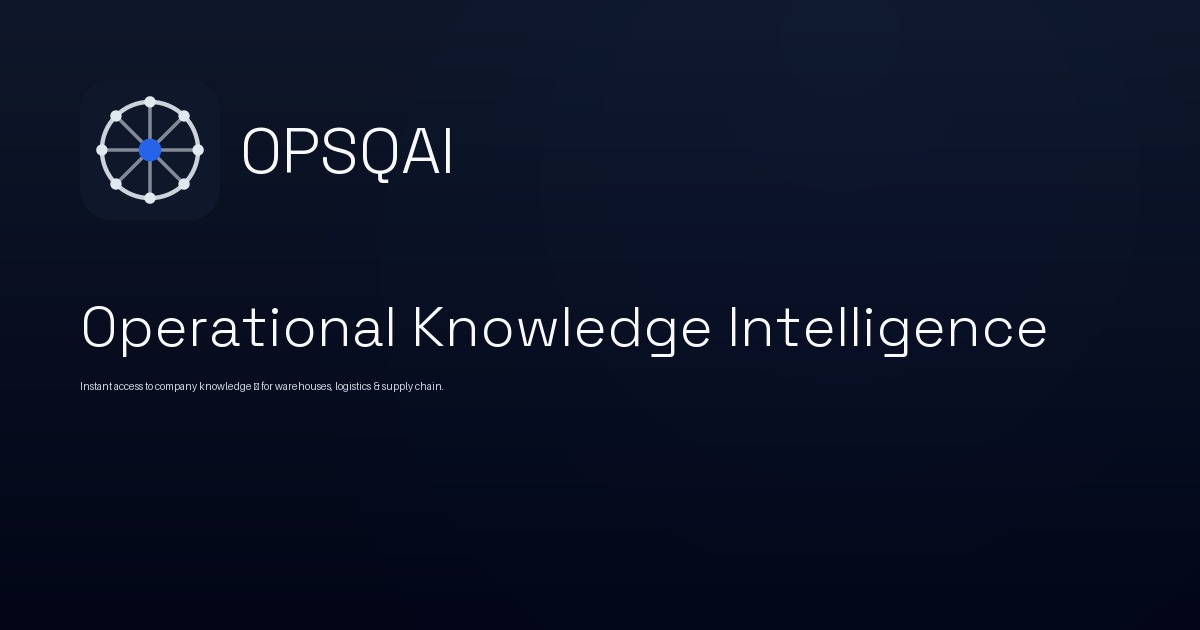
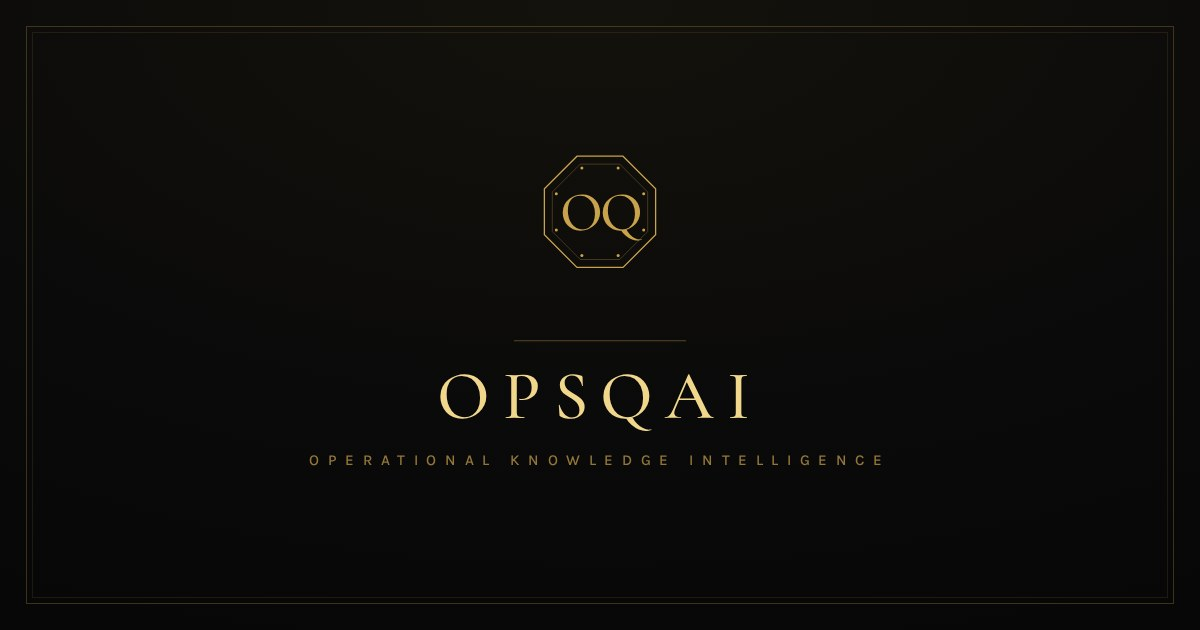
Changes

diff --git a/src/routes/kai.tsx b/src/routes/kai.tsx
@@ -30,7 +30,11 @@ export const Route = createFileRoute("/kai")({
       { property: "og:title", content: "Discută cu Kai — OPSQAI" },
       { property: "og:description", content: "Întreabă-l pe Kai despre OPSQAI pentru firma ta și cere un pilot gratuit de 30 de zile." },
       { property: "og:type", content: "website" },
-      { name: "twitter:card", content: "summary" },
+      { property: "og:image", content: "https://opsqai.de/og-image.jpg" },
+      { name: "twitter:card", content: "summary_large_image" },
+      { name: "twitter:title", content: "Discută cu Kai — OPSQAI" },
+      { name: "twitter:description", content: "Întreabă-l pe Kai despre OPSQAI pentru firma ta și cere un pilot gratuit de 30 de zile." },
+      { name: "twitter:image", content: "https://opsqai.de/og-image.jpg" },
     ],
     links: [{ rel: "canonical", href: "https://opsqai.de/kai" }],
   }),
